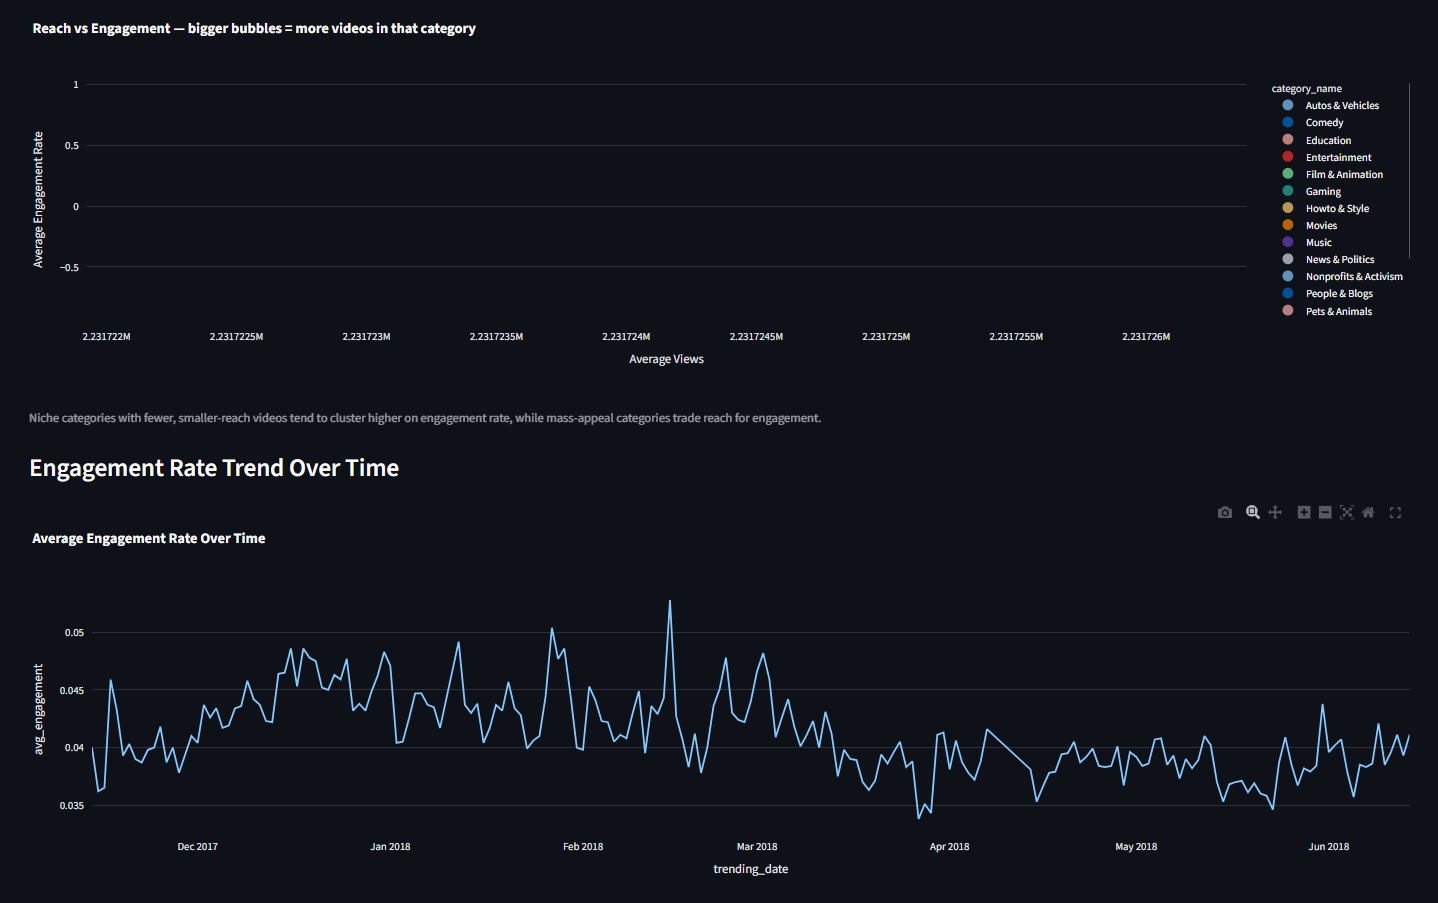
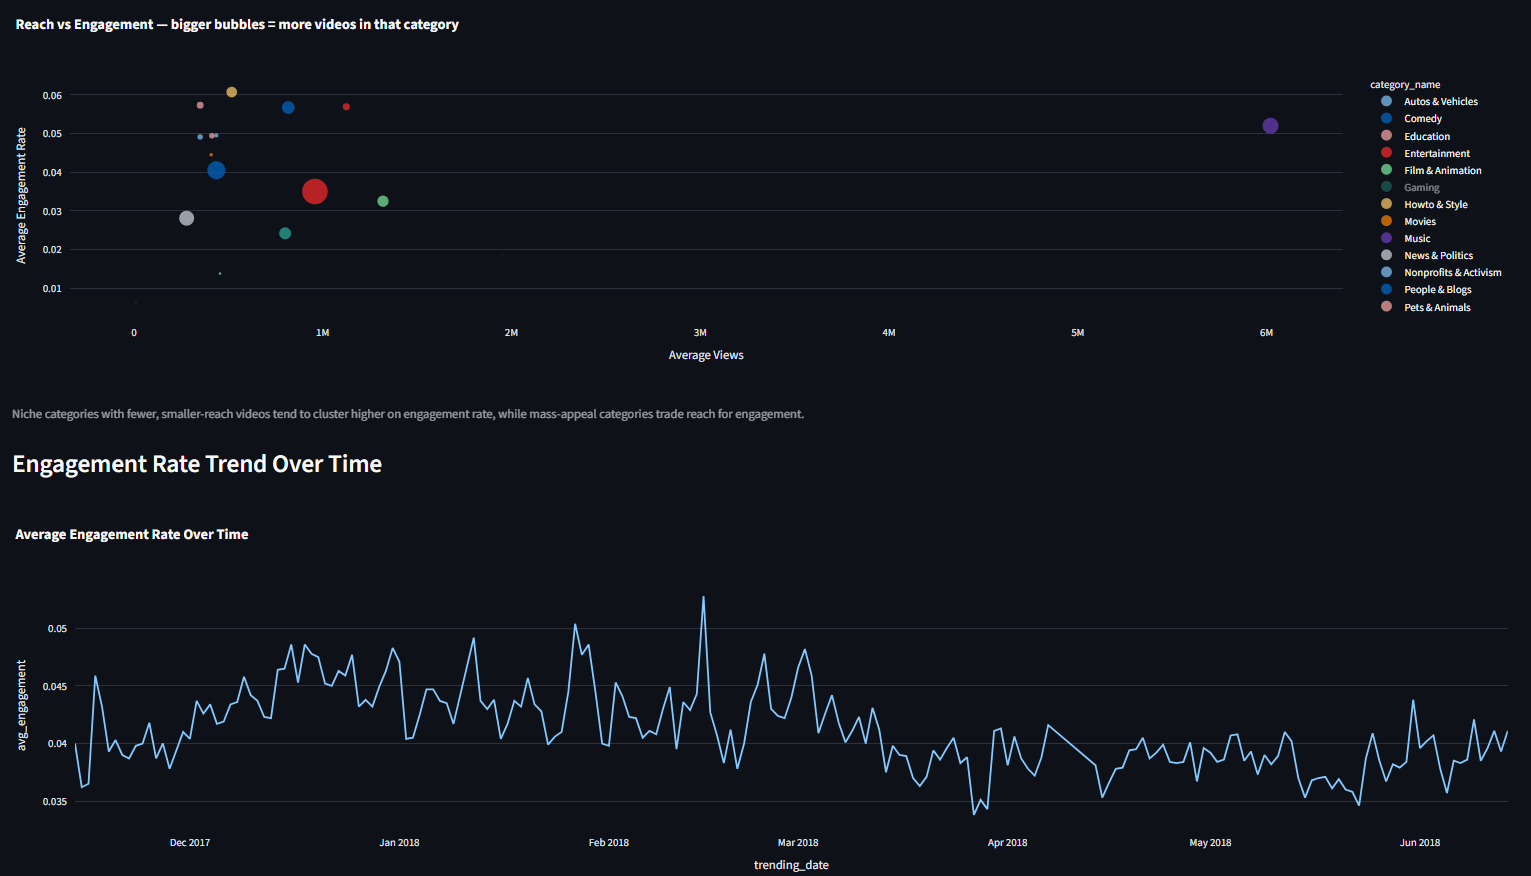
Made some changes in ScreenShots

diff --git a/README.md b/README.md
@@ -47,9 +47,12 @@ My takeaway: smaller, more dedicated audiences engage more per view than mass-ap
 
 ## Dashboard
 
- ![Overview tab](images/dashboard-overview.png) 
- ![By Category tab](images/dashboard-category.png) 
- ![By Country tab](images/dashboard-country.png)
+ ![views-vs-engagement overview](images/views%20vs%20engagement%20rate%20by%20category.png) 
+ ![engagement rate trend over time overview](images/engagement%20rate%20trend%20over%20time.png)
+ ![engagement rate by Category](images/top%20categories%20by%20engagement%20rate.png) 
+ ![view count rankings across categories](images/top%20categories%20by%20average%20views.png)
+ ![engagement rate comparison by country](images/engagement%20rate%20by%20country.png)
+
 
 The dashboard is organized into four tabs:
 - **Overview** — a views-vs-engagement bubble scatter plot (bubble size = video count) and an engagement rate trend over time
